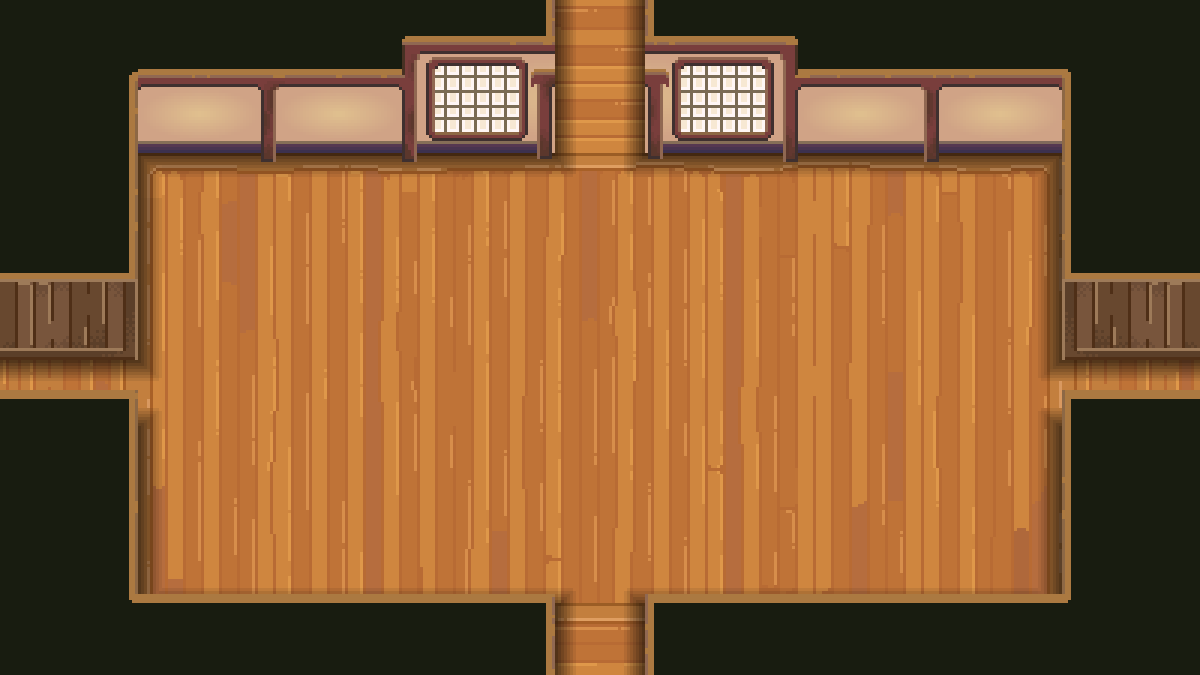
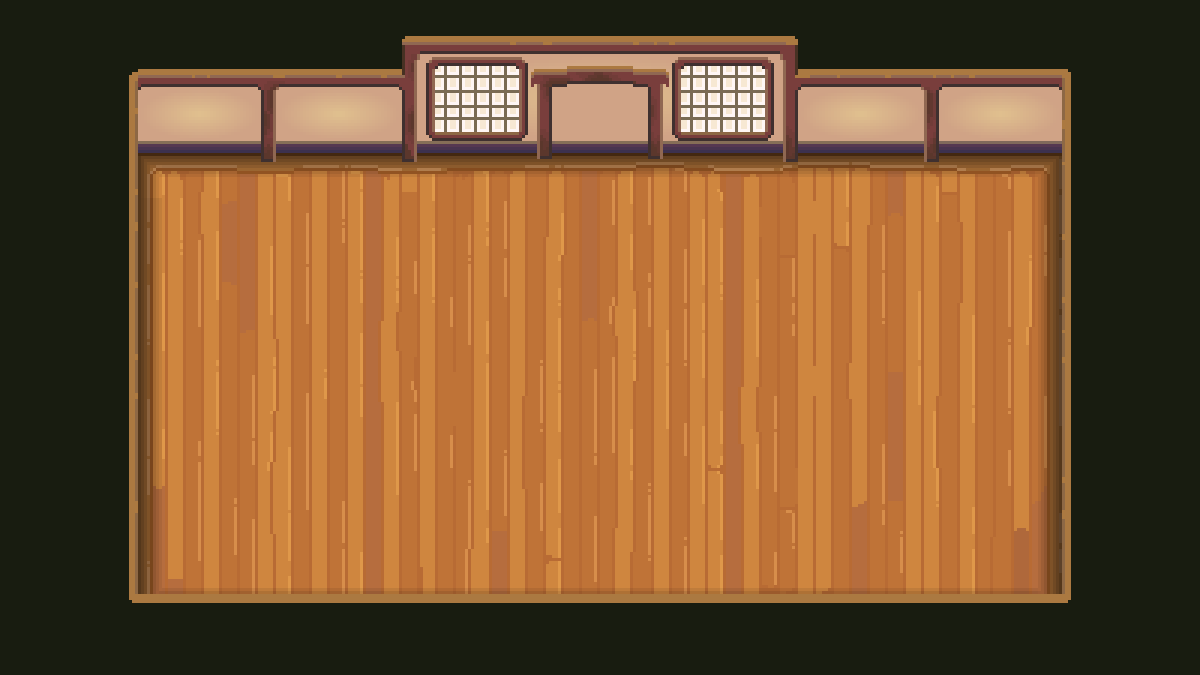
geração procedural

diff --git a/sala.py b/sala.py
@@ -2,17 +2,31 @@ from PPlay.sprite import *
 
 class Sala:
     
-    def __init__(self, pos, var, clear):
+    def __init__(self, adress, var, clear):
         
-        self.x = pos[0]
-        self.y = pos[1]
-        #self.paredes = paredes
+        self.adress = adress
+
+        self.x = self.adress[0] * 1200
+        self.y = self.adress[1] * 675
+
         self.var = var
         self.clear = clear
-        self.sprite = Sprite('assets/sala/sala.png')
-        self.sprite.set_position(pos[0],pos[1])
 
-        #colisão
+        self.sprite = Sprite('assets/sala/sala.png')
+        self.sprite.set_position(self.x,self.y)
+        self.portas = [Sprite('assets/sala/passages/TOP_PASSAGE.png'),Sprite('assets/sala/passages/BOTTOM_PASSAGE.png'),Sprite('assets/sala/passages/RIGHT_PASSAGE.png'),Sprite('assets/sala/passages/LEFT_PASSAGE.png')]
+        # PORTAS
+        self.portas[0].set_position(546+self.x,0+self.y)
+        self.portas[1].set_position(543+self.x,573+self.y)
+        self.portas[2].set_position(1038+self.x,273+self.y)
+        self.portas[3].set_position(self.x,273+self.y)
+
+        self.portaDireita = False
+        self.portaEsquerda = False
+        self.portaCima = False
+        self.portaBaixo = False
+
+        # COLISÃO
         self.col = []
         for i in range(8):
             if i < 2:
@@ -25,13 +39,15 @@ class Sala:
                 self.col.append(Sprite('assets/sala/down_placeholder.png'))
         
 
-        #renderizar em frente ao jogador
-        self.renderFrente = [Sprite('assets/sala/left_passage_southwall.png'), Sprite('assets/sala/right_passage_southwall.png'), Sprite('assets/sala/room_southwall.png')]
+        # RENDER DEPOIS
+        self.renderFrente = [Sprite('assets/sala/left_passage_southwall.png'), Sprite('assets/sala/right_passage_southwall.png'), Sprite('assets/sala/room_southwall.png'),Sprite('assets/sala/botoom_wal_Nodoorl.png'),Sprite('assets/sala/top_frame.png')]
         
-        #posições
+        # POSIÇÕES
         self.renderFrente[0].set_position(0+self.x,390+self.y)
         self.renderFrente[1].set_position(1062+self.x,390+self.y)
         self.renderFrente[2].set_position(138+self.x,594+self.y)
+        self.renderFrente[3].set_position(138+self.x,594+self.y)
+        self.renderFrente[4].set_position(555+self.x,36+self.y)
 
         self.col[0].set_position(self.x,self.y)
         self.col[1].set_position(1065+self.x,self.y)
@@ -40,13 +56,46 @@ class Sala:
         self.col[4].set_position(self.x,429+self.y)
         self.col[5].set_position(1062+self.x,429+self.y)
         self.col[6].set_position(138+self.x,633+self.y)
-        self.col[7].set_position(645+self.x,594+self.y)
+        self.col[7].set_position(645+self.x,633+self.y)
+
+    def SetPortas(self, l):
+        if ((self.adress[0],self.adress[1]+1) in l):
+            #Tem sala em baixo
+            self.portaBaixo = True
+        else:
+            c = Sprite('assets/sala/bottom_door_placeholder.png')
+            c.set_position(555+self.x,633+self.y)
+            self.col.append(c)
+        if ((self.adress[0],self.adress[1]-1) in l):
+            #Tem sala em cima
+            self.portaCima = True
+        else:
+            c = Sprite('assets/sala/top_door_placeholder.png')
+            c.set_position(555+self.x,0+self.y)
+            self.col.append(c)
+        if ((self.adress[0]+1,self.adress[1]) in l):
+            #Tem sala na direita
+            self.portaDireita = True
+        else:
+            c = Sprite('assets/sala/side_door_placeholder.png')
+            c.set_position(1062+self.x,279+self.y)
+            self.col.append(c)
+        if ((self.adress[0]-1,self.adress[1]) in l):
+            #Tem sala na esquerda
+            self.portaEsquerda = True
+        else:
+            c = Sprite('assets/sala/side_door_placeholder.png')
+            c.set_position(0+self.x,279+self.y)
+            self.col.append(c)
+
 
     def Mover_X(self, speed):
         self.x += speed
         for i in self.renderFrente:
             i.x += speed
         for i in self.col:
+            i.x += speed
+        for i in self.portas:
             i.x += speed
         self.sprite.set_position(self.x, self.y)
 
@@ -56,11 +105,34 @@ class Sala:
             i.y += speed
         for i in self.col:
             i.y += speed
+        for i in self.portas:
+            i.y += speed
         self.sprite.set_position(self.x, self.y)
 
     def DrawSala(self):
         self.sprite.draw()
+
+        #Desenhar portas caso existam salas adjascentes correspondentes
+        if self.portaCima:
+            self.portas[0].draw()
+        if self.portaBaixo:
+            self.portas[1].draw()
+        if self.portaDireita:
+            self.portas[2].draw()
+        if self.portaEsquerda:
+            self.portas[3].draw()
     
     def DrawFrenteJogador(self):
-        for i in range(len(self.renderFrente)):
-            self.renderFrente[i].draw()
+        if self.portaDireita:
+            self.renderFrente[1].draw()
+
+        if self.portaEsquerda:
+            self.renderFrente[0].draw()
+
+        if self.portaBaixo:
+            self.renderFrente[2].draw()
+        else:
+            self.renderFrente[3].draw()
+        
+        if self.portaCima:
+            self.renderFrente[4].draw()

diff --git a/main.py b/main.py
@@ -12,34 +12,21 @@ import mapgenerator
 # DEFINIÇÃO DA JANELA
 w,h = 1200,675
 janela = Window(w,h)
-janela.set_background_color((0,0,0))
+janela.set_background_color((22,22,22))
 
 # DISPOSITIVOS DE ENTRADA
 key_input = keyboard.Keyboard()
 
 # SPRITES E ANIMAÇÕES
 jogador = Sprite('assets/gato.png',2)
-#bg = Sprite('assets/Sala Passagem.png')
-#bg2 = Sprite('assets/Sala Passagem.png')
-#bg3 = Sprite('assets/Sala Passagem.png')
-#bg4 = Sprite('assets/Sala Passagem.png')
-#bg5 = Sprite('assets/Sala Passagem.png')
-#bg6 = Sprite('assets/Sala Passagem.png')
-#bg7 = Sprite('assets/Sala Passagem.png')
-#bg8 = Sprite('assets/Sala Passagem.png')
-#bg9 = Sprite('assets/Sala Passagem.png')
 
-bg = Sala((0,0),0,True)
-bg2 = Sala((-1200,0),0,True)
-bg3 = Sala((0,-675),0,True)
-bg4 = Sala((-1200,-675),0,True)
-todos_sprites = [bg,bg2,bg3,bg4]
+todos_sprites = mapgenerator.todasSalas
 
 # POSIÇÕES INICIAIS
-jogador.set_position(w/2-20,h/2-20)
+jogador.set_position(w/2-40.5,h/2-40.5)
 
 # CONFIGURAÇÕES E VARIÁVEIS DO JOGO
-velMovimento = 250
+velMovimento = 270
 
 podeMover = True
 velocity_x = 0                                                         # Velocidade atual do jogador no eixo X
@@ -47,6 +34,10 @@ velocity_y = 0                                                         # Velocid
 
 contadorQuadros = 0
 ultimasCoords = []
+
+# GERAÇÃO DE MAPA
+mapa = mapgenerator.GenerateMap(14,8)
+
 
 #screen_swap
 vel_cam_x = 1550
@@ -64,7 +55,8 @@ x_tela = 0
 # FUNÇÕES
 
 v_str = ''
-mapgenerator.GenerateMap(14,8)
+print(mapa)
+mapgenerator.SetSalas(mapa)
 while True:
     x = jogador.x
     y = jogador.y
@@ -116,7 +108,7 @@ while True:
     if(jogador.x < 0):                                                   # Jogador passou para sala a ESQUERDA
         swapLeft = True
     if(swapLeft):
-        ultimasCoords.clear()                                             # Limpa a lista de últimas coordenadas para evitar problemas de posicionamento enquanto muda de tela
+        #ultimasCoords.clear()                                             # Limpa a lista de últimas coordenadas para evitar problemas de posicionamento enquanto muda de tela
 
         tempo_resto = w/vel_cam_x
         vel_jogador = (w-jogador.width-20)/tempo_resto
@@ -133,7 +125,7 @@ while True:
     if(jogador.x > w-jogador.width):                                      # Jogador passou para sala a DIREITA
         swapRight = True
     if(swapRight):
-        ultimasCoords.clear()                                             # Limpa a lista de últimas coordenadas para evitar problemas de posicionamento enquanto muda de tela
+        #ultimasCoords.clear()                                             # Limpa a lista de últimas coordenadas para evitar problemas de posicionamento enquanto muda de tela
 
         tempo_resto = w/vel_cam_x
         vel_jogador = (w-jogador.width-20)/tempo_resto
@@ -150,7 +142,7 @@ while True:
     if(jogador.y < 0):                                                    # Jogador passou para sala a CIMA
         swapUp = True
     if(swapUp):
-        ultimasCoords.clear()                                             # Limpa a lista de últimas coordenadas para evitar problemas de posicionamento enquanto muda de tela
+        #ultimasCoords.clear()                                             # Limpa a lista de últimas coordenadas para evitar problemas de posicionamento enquanto muda de tela
 
         tempo_resto = h/vel_cam_y
         vel_jogador = (h-jogador.height-10)/tempo_resto
@@ -167,7 +159,7 @@ while True:
     if(jogador.y > h-jogador.height):                                      # Jogador passou para sala a BAIXO
         swapDown = True
     if(swapDown):
-        ultimasCoords.clear()                                             # Limpa a lista de últimas coordenadas para evitar problemas de posicionamento enquanto muda de tela
+        #ultimasCoords.clear()                                             # Limpa a lista de últimas coordenadas para evitar problemas de posicionamento enquanto muda de tela
 
         tempo_resto = h/vel_cam_y
         vel_jogador = (h-jogador.height-10)/tempo_resto
@@ -192,6 +184,7 @@ while True:
         s.DrawSala()
 
     jogador.draw()
+
     for s in todos_sprites:
         s.DrawFrenteJogador()
     if(not swapLeft and not swapRight and not swapDown and not swapUp and podeMover):
@@ -199,8 +192,8 @@ while True:
         jogador.move_y(velocity_y*janela.delta_time())
     
     # REGISTRAR COORDENADAS DOS ÚLTIMOS QUADROS PARA COLISÃO
-        ultimasCoords.append((jogador.x,jogador.y))
-        if(len(ultimasCoords) > 3):
-            ultimasCoords.pop(0)
+    ultimasCoords.append((jogador.x,jogador.y))
+    if(len(ultimasCoords) > 2):
+        ultimasCoords.pop(0)
     
     janela.update()

diff --git a/MovimentoJogador.py b/MovimentoJogador.py
@@ -1,0 +1,47 @@
+from PPlay.keyboard import *
+
+# DISPOSITIVOS DE ENTRADA
+key_input = Keyboard()
+
+# CONFIGURAÇÕES E VARIÁVEIS DO JOGO
+velMovimento = 270
+
+podeMover = True
+velocity_x = 0                                                         # Velocidade atual do jogador no eixo X
+velocity_y = 0                                                         # Velocidade atual do jogador no eixo Y
+
+# Desaceleração
+dc_speed = 1200
+x_tela = 0
+
+def Movimento(jogador,janela):
+    global velocity_x, velocity_y
+    # MOVIMENTO DO JOGADOR
+    if(key_input.key_pressed('w')):                                      # Tecla W Pressionada
+        velocity_y = -velMovimento
+    elif(velocity_y < 0):
+        velocity_y+=dc_speed*janela.delta_time()
+
+    if(key_input.key_pressed('s')):                                      # Tecla S Pressionada
+        velocity_y = velMovimento
+    elif(velocity_y > 0):
+        velocity_y-=dc_speed*janela.delta_time()
+    
+    if(key_input.key_pressed('a')):                                      # Tecla A Pressionada
+        velocity_x = -velMovimento
+    elif(velocity_x < 0):
+        velocity_x+=dc_speed*janela.delta_time()
+
+    if(key_input.key_pressed('d')):                                     # Tecla D Pressionada
+        velocity_x = velMovimento
+    elif(velocity_x > 0):
+        velocity_x-=dc_speed*janela.delta_time()
+
+    if(velocity_x < 10 and velocity_x > -10):                           # Desacelerar jogador (Zerar a velocidade com valores próximos de 0)
+        velocity_x = 0
+    if(velocity_y < 10 and velocity_y > -10):
+        velocity_y = 0            
+
+    if(podeMover):
+        jogador.move_x(velocity_x*janela.delta_time())
+        jogador.move_y(velocity_y*janela.delta_time())

diff --git a/mapgenerator.py b/mapgenerator.py
@@ -1,4 +1,9 @@
 import random
+from sala import *
+
+todasSalas = []
+lista_coords = []
+spawn = []
 
 def Show(a):
     for l in a:
@@ -11,12 +16,14 @@ def GenerateMap(n_rooms, matrix_size):
         
         #set spawn
         spawn_coords = [random.randint(1,matrix_size-2),random.randint(1,matrix_size-2)]
+        spawn.append(spawn_coords[0])
+        spawn.append(spawn_coords[1])
         print(spawn_coords)
 
         arr[spawn_coords[0]][spawn_coords[1]] = 2
         generatedRooms = 1;
         rooms = [(spawn_coords[0],spawn_coords[1])]
-        Show(arr)
+        
         cr_i = spawn_coords[0] #stands for current room line
         cr_j = spawn_coords[1] #stands for current room row
         while(generatedRooms < n_rooms):
@@ -35,3 +42,21 @@ def GenerateMap(n_rooms, matrix_size):
             cr_j = rooms[roomPick][1]
             
         Show(arr)
+        return arr
+        
+    
+            
+def SetSalas(a):
+     #definir spawn
+     salaSpawn = Sala((0,0), 0, True)
+     todasSalas.append(salaSpawn)
+
+     for i in range(len(a)):
+          for j in range(len(a)):
+               if a[i][j] == 1:
+                    todasSalas.append(Sala((j-spawn[1],i-spawn[0]),1,False))
+    
+     for i in todasSalas:
+          lista_coords.append(i.adress)
+     for i in todasSalas:
+          i.SetPortas(lista_coords)
